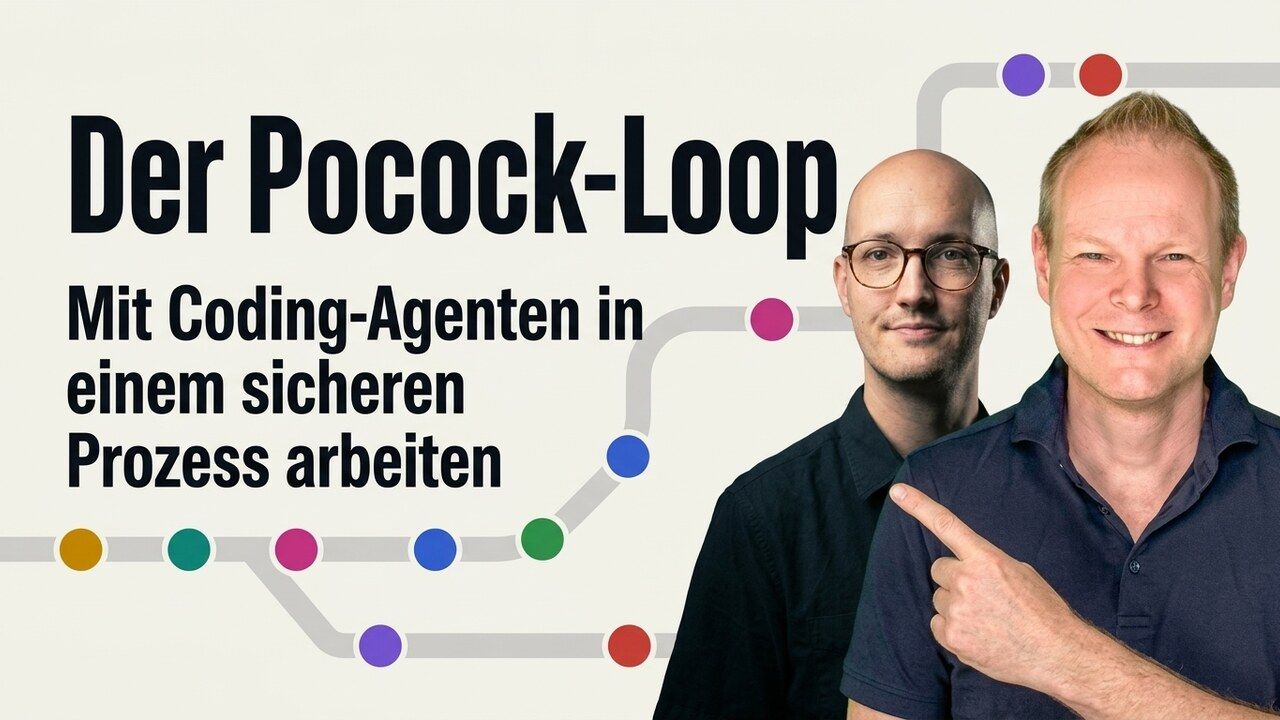
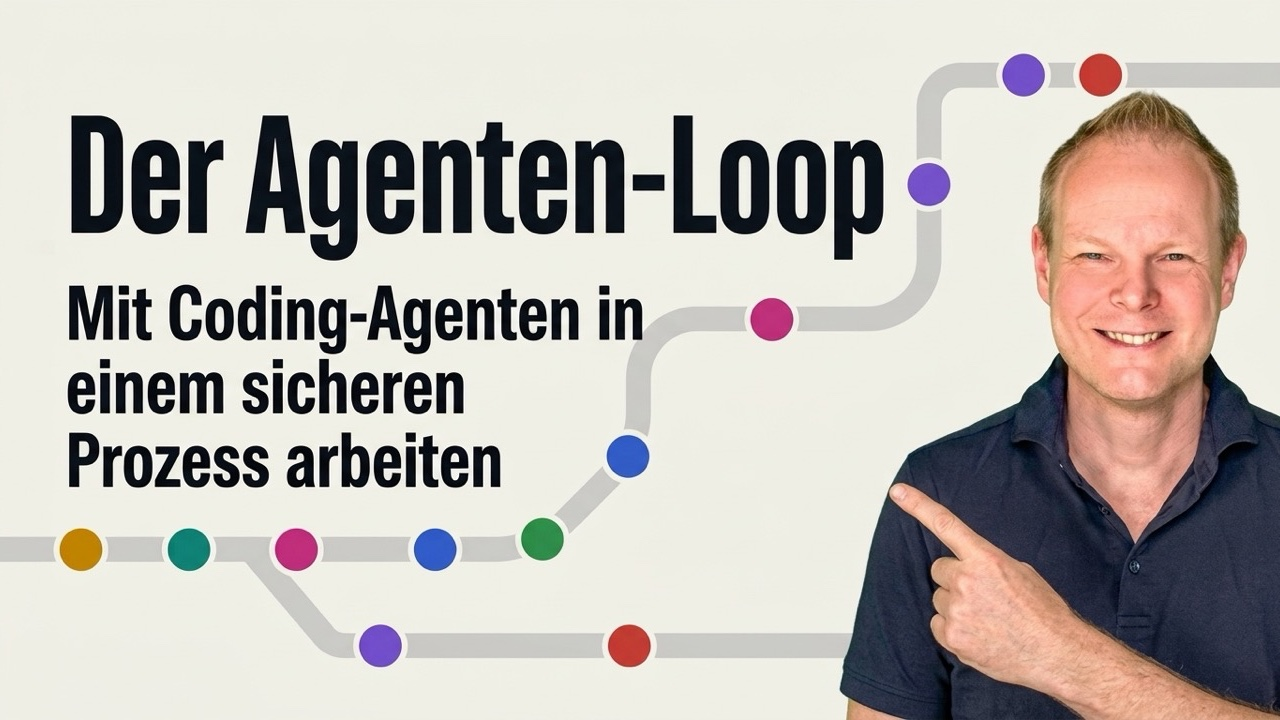
feat: publish lernsession der-pocock-loop

Changed region(s): [[0.1875, 0.1528, 0.8125, 1.0]]

diff --git a/lessons/der-pocock-loop/index.html b/lessons/der-pocock-loop/index.html
@@ -4,18 +4,18 @@
 <meta charset="utf-8">
 <meta name="viewport" content="width=device-width,initial-scale=1,viewport-fit=cover">
 <meta name="color-scheme" content="light">
-<title>Der Pocock-Loop</title>
+<title>Der Agenten-Loop</title>
 <meta name="description" content="Interaktive Lernsession in 10 Stationen: Wie du mit Matt Pococks Skills und einem Coding-Agenten von der Idee über Grillen, Spec und Tickets bis zum Review arbeitest. Beispiele mit Claude Code.">
 <link rel="canonical" href="https://teamflowencer.de/lernen/der-pocock-loop/">
 <meta property="og:type" content="website">
 <meta property="og:locale" content="de_DE">
-<meta property="og:title" content="Der Pocock-Loop">
+<meta property="og:title" content="Der Agenten-Loop">
 <meta property="og:description" content="Interaktive Lernsession in 10 Stationen: Grillen, Spec, Tickets, Umsetzen, Review und Projektwissen mit Matt Pococks Skills.">
 <meta property="og:url" content="https://teamflowencer.de/lernen/der-pocock-loop/">
 <meta property="og:image" content="https://teamflowencer.de/lernen/der-pocock-loop/assets/der-pocock-loop-thumbnail.jpg">
 <meta property="og:image:width" content="1280">
 <meta property="og:image:height" content="720">
-<meta property="og:image:alt" content="Der Pocock-Loop als U-Bahn-Linie: Idee, Grillen, Spec, Tickets, Umsetzen, Review, Projektwissen">
+<meta property="og:image:alt" content="Der Agenten-Loop als U-Bahn-Linie: Idee, Grillen, Spec, Tickets, Umsetzen, Review, Projektwissen">
 <meta name="twitter:card" content="summary_large_image">
 <link rel="icon" type="image/png" sizes="64x64" href="assets/favicon-64.png">
 <link rel="apple-touch-icon" href="assets/apple-touch-icon.png">
@@ -183,7 +183,7 @@ svg text{fill:var(--ink);font-family:var(--sans)}
 <div class="app">
 <header>
   <div class="brand">
-    <h1>Der Pocock-Loop</h1>
+    <h1>Der Agenten-Loop</h1>
     <span class="meta">10 Stationen · etwa 12 Minuten</span>
   </div>
   <nav class="line" id="line" aria-label="Stationen"></nav>
@@ -589,7 +589,7 @@ svg text{fill:var(--ink);font-family:var(--sans)}
 
 <script>
 (function(){
-  const K='pocock-loop-v2';
+  const K='agenten-loop-v2';
   const L=[...document.querySelectorAll('.lesson')];
   const reduce=matchMedia('(prefers-reduced-motion: reduce)').matches;
   let st={cur:0,done:{},tries:{}};
